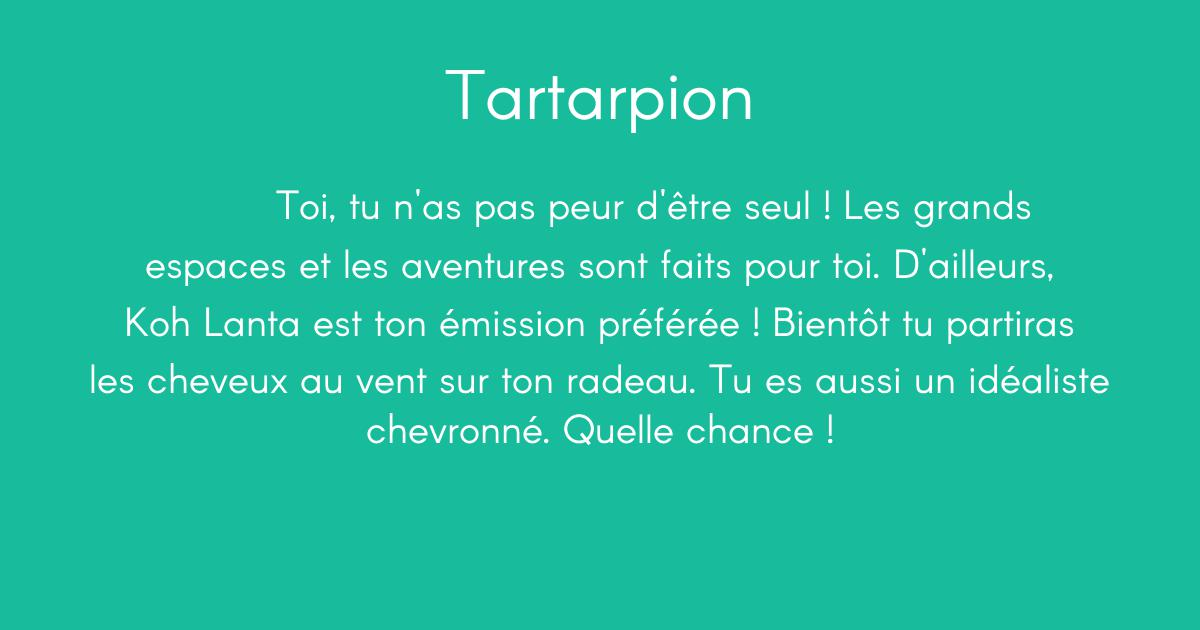
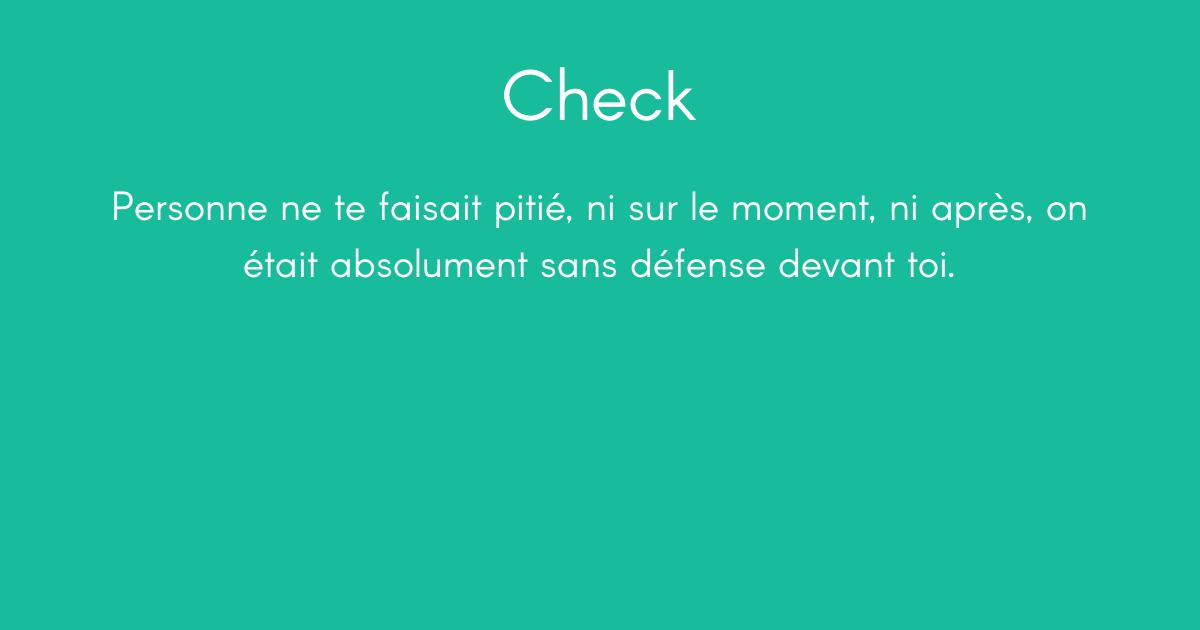
local done

diff --git a/fbapp/views.py b/fbapp/views.py
@@ -1,7 +1,7 @@
 #coding: utf-8
 import logging
 from flask import Flask, render_template, url_for, request
-#import utils   
+from .utils import find_content, OpenGraphImage
 #from .utils import OpenGraphImage 
 app = Flask(__name__)
 
@@ -14,6 +14,7 @@ def index():
             Toi, tu sais comment utiliser la console ! Jamais à court d'idées pour réaliser ton objectif, tu es déterminé-e et persévérant-e. Tes amis disent d'ailleurs volontiers que tu as du caractère et que tu ne te laisses pas marcher sur les pieds. Un peu hacker sur les bords, tu aimes trouver des solutions à tout problème. N'aurais-tu pas un petit problème d'autorité ? ;-)
         """
 
+    page_title = "Le test ultime"
     if "img" in request.args:
         img = request.args['img']
         og_img = url_for('static', filename = img, _external = True ) 
@@ -27,29 +28,31 @@ def index():
 
         og_img = url_for('static', filename = "tmp/sample", _external = True ) 
         og_url = url_for("index",  _external = True)
-      
+        og_description = "Découvre qui tu es vraiment en faisant le test ultime !"
     return render_template(u"index.html",
-                            user_name = u"names",
+                            user_name = u"namesgeo",
                             user_image = url_for(u"static", filename = u"img/profile.png"),
                             description = description,
                             blur = True,
+                            page_title=page_title,
                             og_url = og_url,
-                            og_img = og_img)
+                            og_img = og_img,
+                            og_description=og_description)
 
 
 @app.route(u'/result/')
 
 def result():
-    description = u"""
-        Toi, tu n'as pas peur d'être seul ! Les grands espaces et les aventures sont faits pour toi. D'ailleurs, Koh Lanta est ton émission préférée ! Bientôt tu partiras les cheveux au vent sur ton radeau. Tu es aussi un idéaliste chevronné. Quelle chance !
-    """
+
     #print "route demandée: {}, méthode utilisée: {}, params: {}".format(request.path, request.method, request.args)
      
-    var = request.args.get('gender')
-    print "var: ",var
+    gender = request.args.get('gender')
+    print "gender: ",gender
     #user_name = request.args.get('first_name')
-    gender = 0 if var == "female" else 1    
-    user_name = utils.find_content(gender)
+    #gender = 0 if var == "female" else 1
+    user_name = request.args.get('first_name')    
+    description = find_content(gender).description
+    print description
     uid = request.args.get('id')
     profile_pic = u'http://graph.facebook.com/' + uid + '/picture?type=large'
 

diff --git a/fbapp/utils.py b/fbapp/utils.py
@@ -1,68 +1,30 @@
 #coding: utf-8
 import random
-import MySQLdb
+#import MySQLdb
 import logging
 from PIL import Image, ImageDraw, ImageFont
-from config import CONFIG_DB
+#from config import CONFIG_DB
 import os
 import textwrap
 
-
-def connect():
-    """
-    As her name indicates, this method allow to connected on the database
-    """
-    #db = CONFIG_DB[u"db"]
-    con  = MySQLdb.connect(
-        host = CONFIG_DB[u"db"][u"host"],
-        user = CONFIG_DB[u"db"][u"user"],
-        passwd = CONFIG_DB[u"db"][u"password"],
-        db = CONFIG_DB[u"db"][u"database"],
-        charset=u"utf8",
-        use_unicode=True)
-
-    cursor = con.cursor()
-    return cursor, con
+import fbapp
 
 def find_content(gender):
+    print "here"
+    con = fbapp.models.Content
+    gen = fbapp.models.Gender
     """
-    This method allow to get random content in db according to the gender pass on url
+    SQL Alchemy This method allow to get random content in db according to the gender pass on url
     """
-    print "genre: ",gender
-
-    if gender is None:
-        print "yass"
-        gender = 1
-
-    items = []
-
     try:
-        print "here"
-
-        cursor, con = connect()
-        query = u"SELECT * FROM content where genre={}".format(str(gender)) 
-        print query
-        cursor.execute(query)
-        for row in cursor.fetchall():
-            # print(row)
-            items.append({
-                u'id': row[0],
-                u'description': row[1],
-                u'genre': row[2],
-                u'artiste': row[3],
-                u'punchline': row[4]
-            })
-        con.commit()
-        print items
-        one = random.choice(items)['artiste']
+        contents = con.query.filter(con.gender == gen[gender]).all()
+        #contents = con.query.filter_by(gender=gen['male'])
+        print "this is contents: {}".format(contents)
+        return random.choice(contents)
     except BaseException, e:
-        logging.error(u'Error: {}'.format(e))
-    
-    print "response: {}".format(one)
+        logging.error("error is: {}".format(e))
 
-    return one
-
-
+    return u"smalafde"
 
 class OpenGraphImage:
     """

diff --git a/fbapp/models.py b/fbapp/models.py
@@ -1,3 +1,4 @@
+#coding:utf8
 from flask_sqlalchemy import SQLAlchemy
 import logging as lg
 from .views import app
@@ -25,8 +26,9 @@ class Content(db.Model):
 def init_db():
     db.drop_all()
     db.create_all()
-    db.session.add(Content("THIS IS SPARTAAAAAAA!!!", Gender["male"]))
-    db.session.add(Content("What's your favorite scary movie?", Gender["female"]))
+    db.session.add(Content(u"THIS IS SPARTAAAAAAA!!!", Gender['male']))
+    db.session.add(Content(u"What's your favorite scary movie?", Gender['female']))
+    db.session.add(Content(u"Personne ne te faisait pitié, ni sur le moment, ni après, on était absolument sans défense devant toi.", Gender['male']))
     db.session.commit()
     lg.warning('Database initialized!')
 
